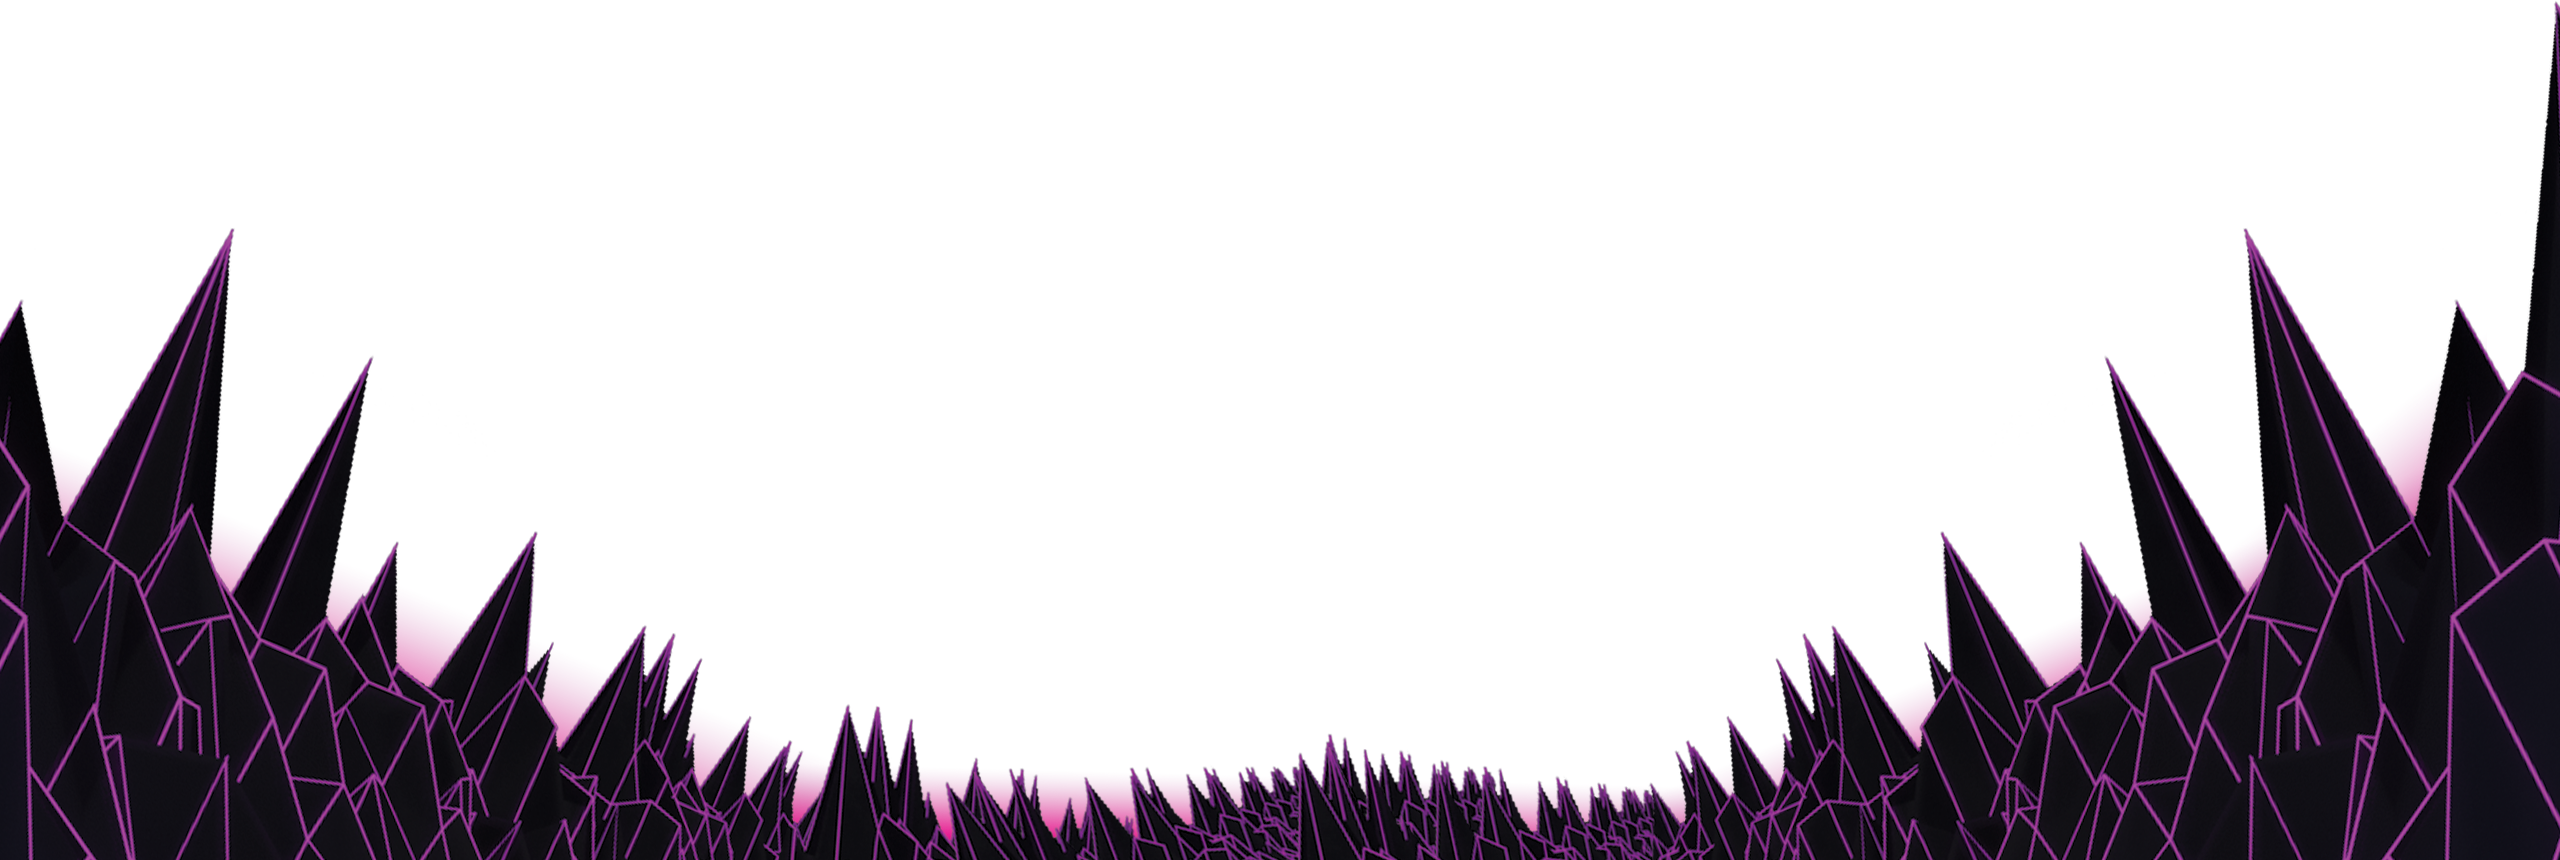
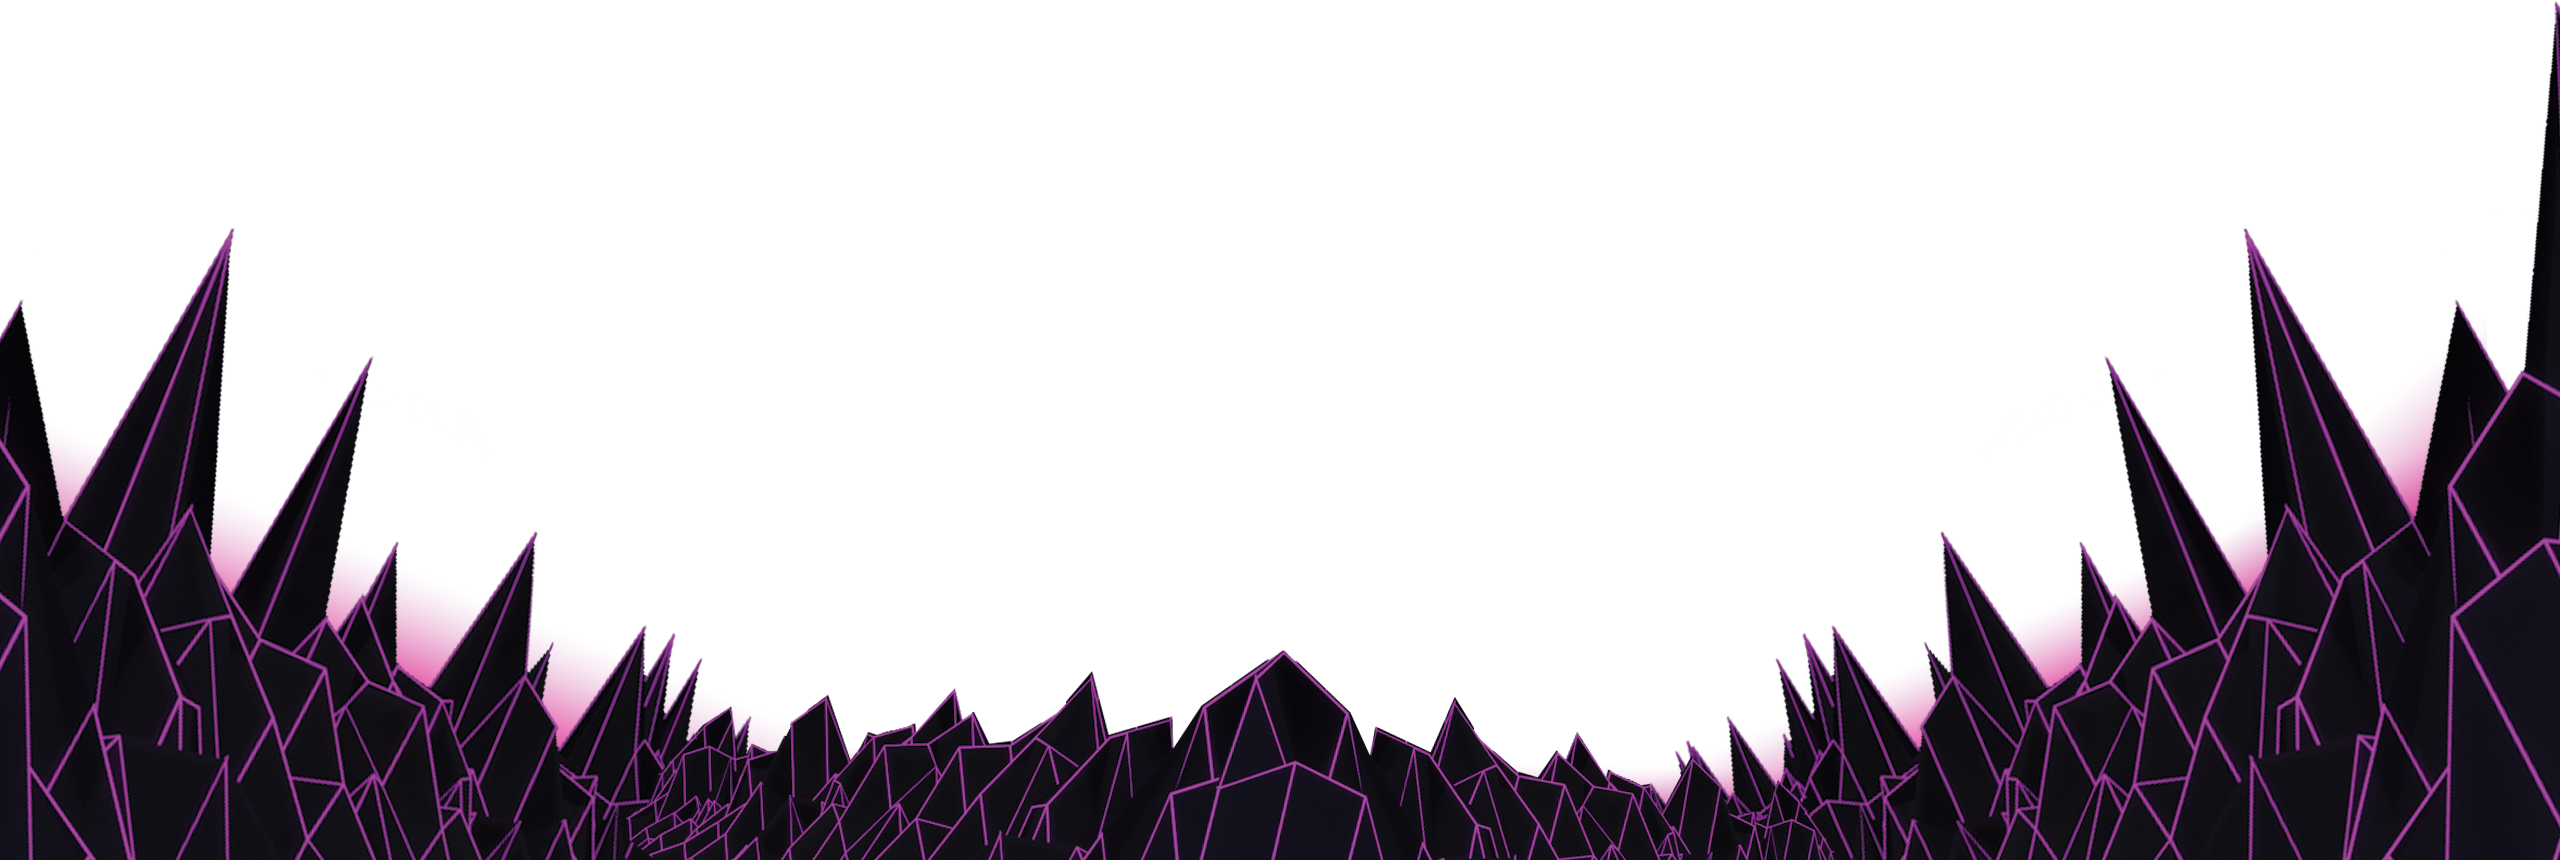
positioning and img changes

diff --git a/src/components/App/App.css b/src/components/App/App.css
@@ -76,8 +76,8 @@ main {
 
 .stars {
   position: absolute;
-  top: 1400px;
-  height: 2200px;
+  top: 1475px;
+  height: 2400px;
   width: 100%;
   overflow: hidden;
 }
@@ -303,7 +303,7 @@ h2 {
   background-size: 1800px;
   background-position-x: 250px;
   top: -450px;
-  height: 5200px;
+  height: 2200px;
   width: 100%;
   z-index: 0;
 }
@@ -315,7 +315,7 @@ h2 {
   background-position-x: 50px;
   position: absolute;
   top: 0px;
-  height: 5200px;
+  height: 2200px;
   width: 100%;
   z-index: 1;
 }
@@ -327,18 +327,18 @@ h2 {
   background-size: 1800px;
   background-position-x: 250px;
   top: 150px;
-  height: 5200px;
+  height: 2200px;
   width: 100%;
   z-index: 1;
 }
 
 .pbbush {
-  background-image: url(../../resources/pbbush.png);
+  background-image: url(../../resources/pbbushT.png);
   background-repeat: no-repeat;
   background-size: 2000px;
   position: absolute;
   top: 700px;
-  height: 5000px;
+  height: 2000px;
   width: 100%;
   z-index: 1;
 }
@@ -347,7 +347,7 @@ h2 {
   width: 100%;
   position: absolute;
   top: 2600px;
-  height: 5000px;
+  height: 2000px;
 }
 
 .footer {
@@ -359,6 +359,20 @@ h2 {
   height: 700px;
   width: 100%;
   top: 5000px;
+  justify-content: center;
+  text-align: center;
+}
+
+.footertext {
+  width: 600px;
+  font-size: 36px;
+  margin:auto;
+  margin-top: 400px;
+}
+.footertext2 {
+  width: 600px;
+  font-size: 24px;
+  margin:auto;
 }
 
 

diff --git a/src/components/App/App.js b/src/components/App/App.js
@@ -75,16 +75,15 @@ function App() {
         </div>
       </div>
 
-      <div className='stars2'>
-      <div id='stars'></div>
-      <div id='stars2'></div>
-      <div id='stars3'></div>
-      </div>
 
       </main>
 
       <footer>
-        <div className='footer'></div>
+        <div className='footer'>
+
+          <p className='footertext gradient'>Thank you for visiting my site!</p>
+          <p className='footertext2 gradient'>Please feel free to get in touch.</p>
+        </div>
       </footer>
 
     </body>
